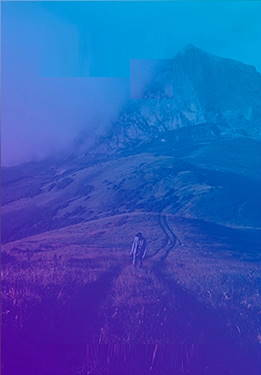
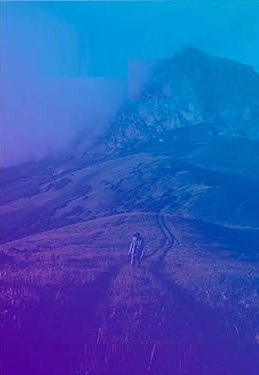
Image fix and background

diff --git a/index.html b/index.html
@@ -35,11 +35,11 @@
                 </div>
                 <div class="Eilute">
                     <label class="label" for="pass">Password</label>
-                    <input class="input" id="pass"type="password" placeholder="password">
+                    <input class="input" id="pass" type="password" placeholder="Password">
                 </div>
                 <div class="Eilute">
                     <label class="label" for="repass">Repeat Password</label>
-                    <input class="input" id="repass" type="password" placeholder="Repeat Password">
+                    <input class="input" id="repass" type="password" placeholder="Repeat password">
                 </div>
                 <div class="Eilute">
                  <a href="#" class="leftB">

diff --git a/css/custom.css b/css/custom.css
@@ -1,5 +1,10 @@
-body{
-    background-color: aqua;
+body{  
+    background-image: url(../image/kalnas.jpg);  
+    /*background: linear-gradient(45deg, #3F51B5, #9C27B0);*/
+    width: 100vw;
+    height: 100vh;
+    background-size: 100% 100%;
+    backdrop-filter: blur(12px);
 }
     main{
         display: inline-block;
@@ -62,5 +67,6 @@ body{
                 position: absolute;
                 font-size: 30px;
                 text-align: center;
+                color: lightgrey;
             }
 
